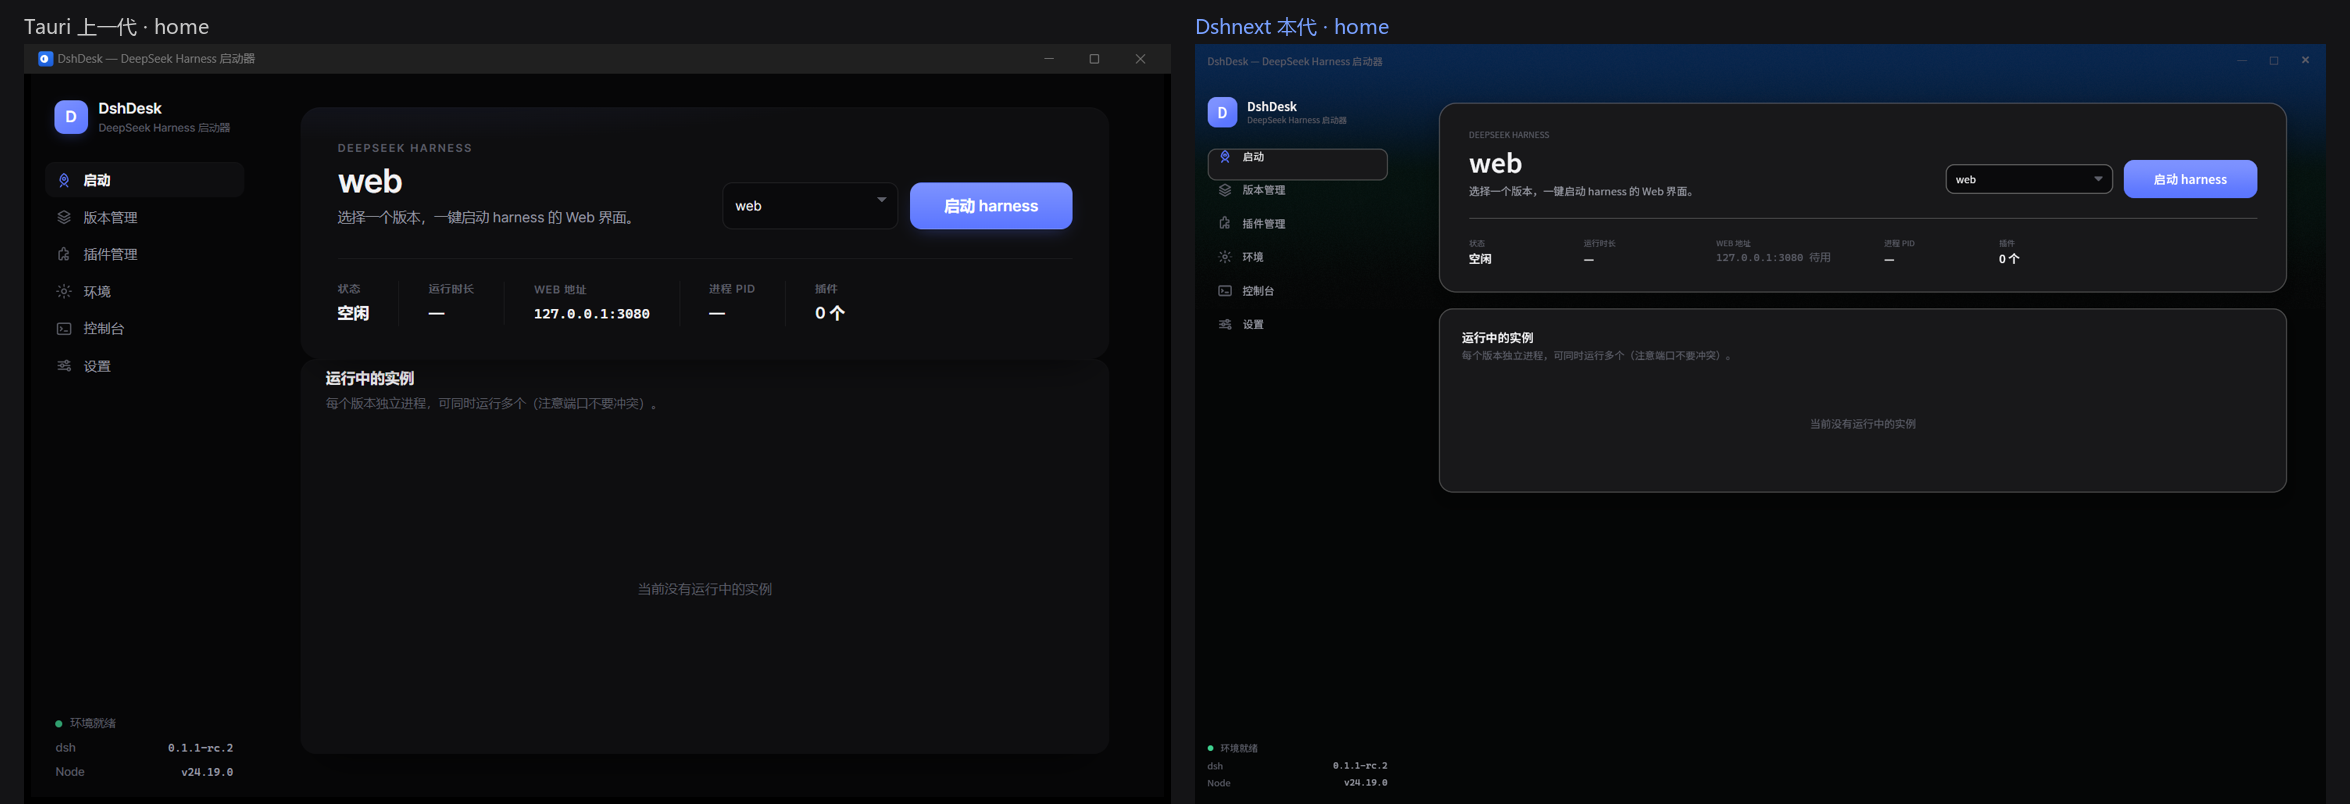
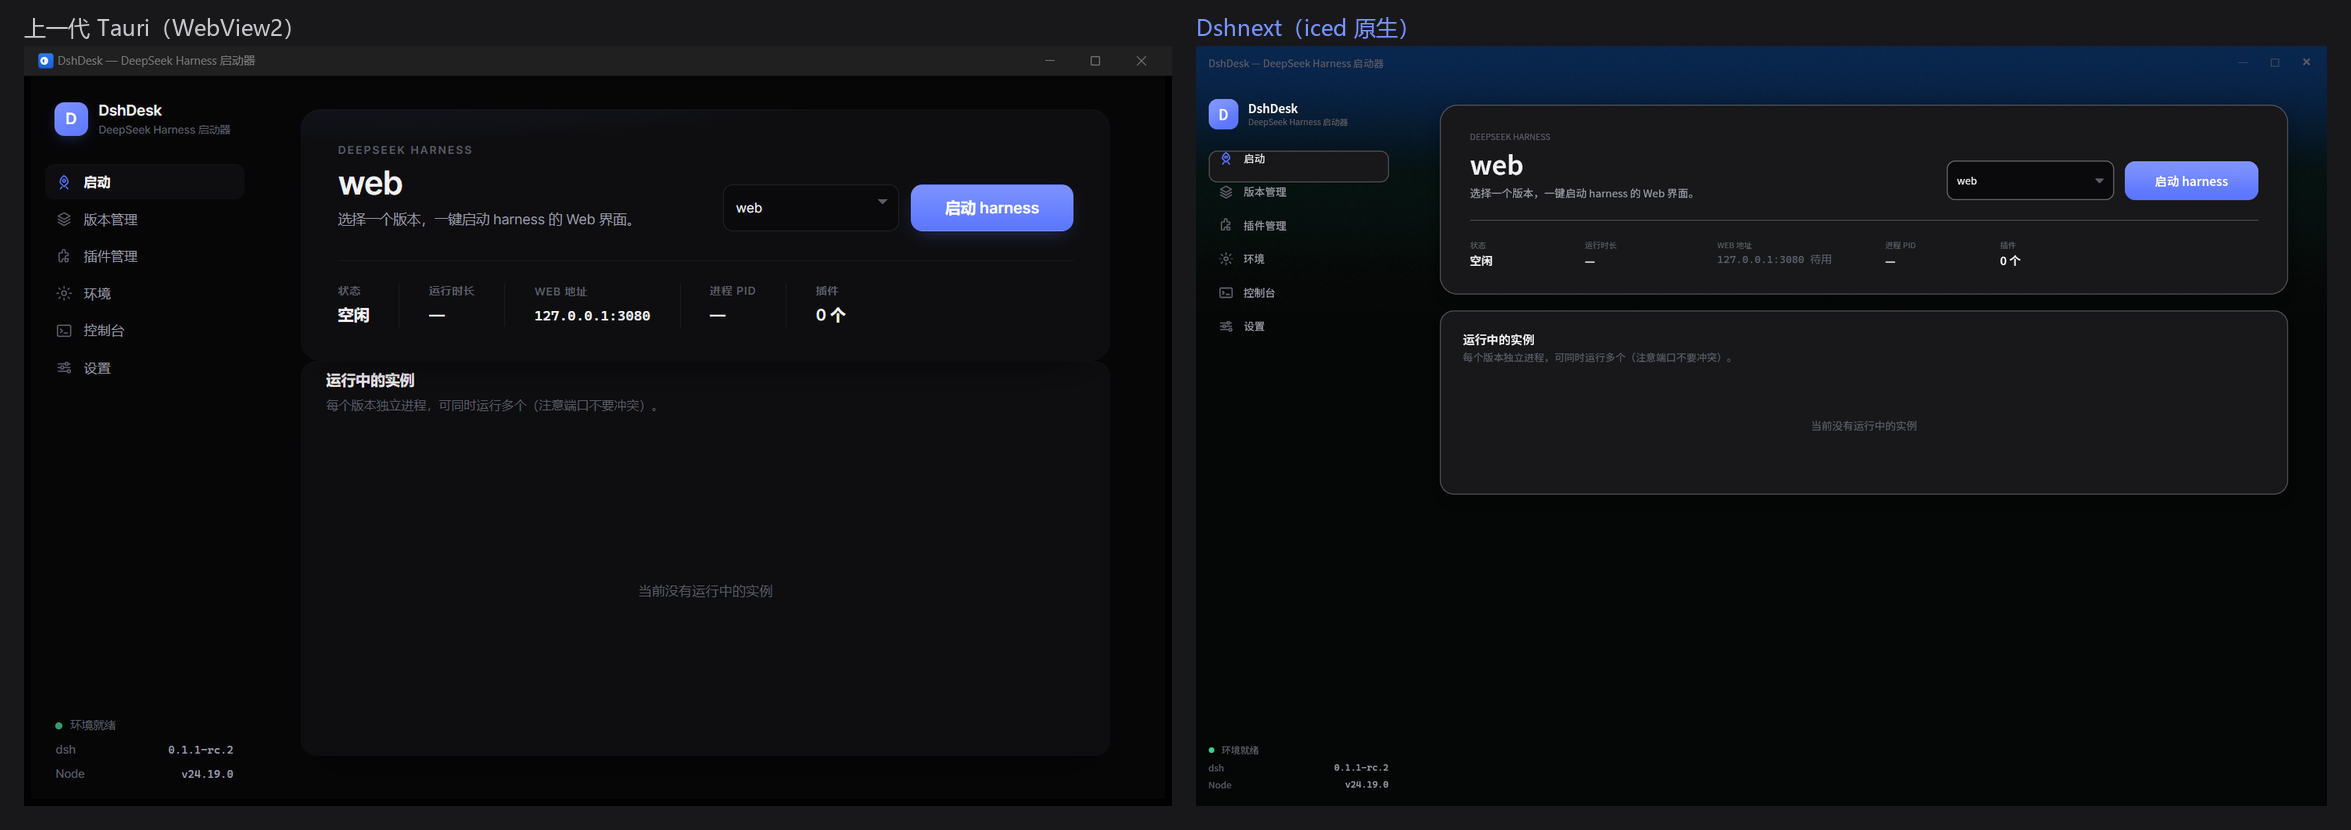
Dshnext 首页 hero 下拉框与启动按钮等高（修「偏下」）
现象：首页版本下拉「web」看着比右侧「启动 harness」按钮低。
根因：上一代 CSS 有两档 select 高度——基础 .select 36px、hero 覆盖成
.hero-actions .select 48px 以与 .btn-hero 等高；Dshnext 把 dropdown()
统一成 ~35px，hero 那档矮了约 10px，顶边就比按钮低、读起来像陷下去
（其实两者中心是对齐的，是高度不一致）。

- widgets::dropdown 加 vpad 参数（pick_list 无 .height()，高度只能靠 padding 撑）
- home hero 传 vpad 15 与按钮等高；其余 6 处（settings×2/plugins/console/env×2）
  保持 vpad 9（基础档，观感不变）
- 量测确认：下拉框 y[162..216] vs 按钮 y[163..217]，等高、顶底边对齐
- 重出 home 明暗 + env 截图，tools/make-compare.py 重生六页并排对比图
- iced_test 14/14 绿；judge 视觉验收 home-dark/home-light/env-dark 全 pass

diff --git a/Dshnext/tools/make-compare.py b/Dshnext/tools/make-compare.py
@@ -1,0 +1,54 @@
+#!/usr/bin/env python3
+"""生成「上一代 Tauri（左）× Dshnext（右）」并排对比图到 shots/compare-p4/。
+
+用法：python tools/make-compare.py [页面名...]   不带参数则六页全出。
+输入：shots/tauri-pages/0N-<name>.png 与 shots/p4-<name>-dark.png
+      （后者用 `dshnext --shot --page <name> --theme dark` 现出）
+CJK 标签靠系统 msyh.ttc；面板按高度 760 等比缩放，深色底拼一张。
+"""
+import sys, os
+from PIL import Image, ImageDraw, ImageFont
+
+ROOT = os.path.dirname(os.path.dirname(os.path.abspath(__file__)))
+SHOTS = os.path.join(ROOT, "shots")
+OUT = os.path.join(SHOTS, "compare-p4")
+PANEL_H = 760
+LABELBAR = 46
+PAD, GAP = 24, 24
+BG = (24, 24, 26)
+FONT = "C:/Windows/Fonts/msyh.ttc"
+# tauri-pages 的文件名前缀编号 → 页面名
+PAGES = {"home": "01", "profiles": "02", "plugins": "03",
+         "env": "04", "console": "05", "settings": "06"}
+
+
+def scale(im):
+    w = round(im.width * PANEL_H / im.height)
+    return im.resize((w, PANEL_H), Image.LANCZOS)
+
+
+def compose(name):
+    tauri = Image.open(os.path.join(SHOTS, "tauri-pages", f"{PAGES[name]}-{name}.png")).convert("RGB")
+    dsh = Image.open(os.path.join(SHOTS, "p4-%s-dark.png" % name)).convert("RGB")
+    t, d = scale(tauri), scale(dsh)
+    W = PAD + t.width + GAP + d.width + PAD
+    H = LABELBAR + PANEL_H + PAD
+    canvas = Image.new("RGB", (W, H), BG)
+    dr = ImageDraw.Draw(canvas)
+    f = ImageFont.truetype(FONT, 22)
+    dr.text((PAD, 12), "上一代 Tauri（WebView2）", font=f, fill=(200, 200, 205))
+    dr.text((PAD + t.width + GAP, 12), "Dshnext（iced 原生）", font=f, fill=(120, 150, 255))
+    canvas.paste(t, (PAD, LABELBAR))
+    canvas.paste(d, (PAD + t.width + GAP, LABELBAR))
+    os.makedirs(OUT, exist_ok=True)
+    out = os.path.join(OUT, f"{name}.png")
+    canvas.save(out)
+    print("wrote", out, canvas.size)
+
+
+if __name__ == "__main__":
+    want = sys.argv[1:] or list(PAGES)
+    for n in want:
+        if n not in PAGES:
+            print("未知页面", n); continue
+        compose(n)

diff --git a/Dshnext/src/ui/widgets.rs b/Dshnext/src/ui/widgets.rs
@@ -323,11 +323,15 @@ pub fn check<'a, Message: Clone + 'a>(
 
 /// 下拉选择（CSS `.select`）。选项收 owned `Vec<T>`——`pick_list` 的
 /// `L: Borrow<[T]>` 允许 Vec，省得调用方为了凑 `&'a [T]` 去 leak。
+/// `vpad` 是纵向内边距：pick_list 没有 `.height()`，高度只能靠 padding 撑。
+/// 上一代基础 `.select` 高 36px（vpad 9），首页 hero 的 `.select` 覆盖成 48px
+/// 以与 `.btn-hero` 等高（vpad 15）——两者不同高会让下拉顶边比按钮低、看着「陷下去」。
 pub fn dropdown<'a, T, Message>(
     options: Vec<T>,
     selected: Option<T>,
     on_select: impl Fn(T) -> Message + 'a,
     width: f32,
+    vpad: u16,
     pal: &'static Palette,
 ) -> Element<'a, Message>
 where
@@ -336,7 +340,7 @@ where
 {
     pick_list(options, selected, on_select)
         .width(Length::Fixed(width))
-        .padding(Padding::from([9, 12]))
+        .padding(Padding::from([vpad, 12]))
         .text_size(11.5)
         .font(FONT_SANS)
         .style(move |_theme: &Theme, status: pick_list::Status| {

diff --git a/Dshnext/src/pages/settings.rs b/Dshnext/src/pages/settings.rs
@@ -198,7 +198,7 @@ fn sources<'a>(app: &'a Dshnext, pal: &'static Palette) -> Element<'a, Message> 
                             .map(|(_, v)| v.to_string())
                             .unwrap_or_default();
                         Message::CfgNodeMirror(v)
-                    }, 260.0, pal),
+                    }, 260.0, 9, pal),
                     iced::widget::container(widgets::input(
                         "https://nodejs.org/dist",
                         &app.cfg_draft.node_mirror,
@@ -224,7 +224,7 @@ fn sources<'a>(app: &'a Dshnext, pal: &'static Palette) -> Element<'a, Message> 
                             .map(|(_, v)| v.to_string())
                             .unwrap_or_default();
                         Message::CfgNpmRegistry(v)
-                    }, 260.0, pal),
+                    }, 260.0, 9, pal),
                     iced::widget::container(widgets::input(
                         "https://registry.npmjs.org",
                         &app.cfg_draft.npm_registry,

diff --git a/Dshnext/src/pages/env.rs b/Dshnext/src/pages/env.rs
@@ -87,6 +87,7 @@ fn detect_card<'a>(app: &'a Dshnext, pal: &'static Palette) -> Element<'a, Messa
                 Some(app.node_pick.clone()),
                 Message::PickNode,
                 150.0,
+                9,
                 pal,
             ));
         }
@@ -189,6 +190,7 @@ fn detect_card<'a>(app: &'a Dshnext, pal: &'static Palette) -> Element<'a, Messa
                 })
             },
             170.0,
+            9,
             pal,
         ));
         r = r.push(action_btn(

diff --git a/Dshnext/src/pages/home.rs b/Dshnext/src/pages/home.rs
@@ -69,6 +69,7 @@ fn hero<'a>(app: &'a Dshnext, pal: &'static Palette) -> Element<'a, Message> {
             current,
             |v: String| Message::Select(v.split(" · ").next().unwrap_or(&v).to_string()),
             190.0,
+            15, // hero：与 48px 的启动按钮等高（上一代 .hero-actions .select）
             pal,
         ));
     }

diff --git a/Dshnext/src/pages/console.rs b/Dshnext/src/pages/console.rs
@@ -47,6 +47,7 @@ pub fn view(app: &Dshnext) -> Element<'_, Message> {
             Some(app.log_filter.clone()),
             Message::SetLogFilter,
             180.0,
+            9,
             pal
         ),
         widgets::check("自动滚动", app.auto_scroll, Message::ToggleAutoScroll, pal),

diff --git a/Dshnext/src/pages/plugins.rs b/Dshnext/src/pages/plugins.rs
@@ -43,6 +43,7 @@ fn toolbar_card<'a>(app: &'a Dshnext, pal: &'static Palette) -> Element<'a, Mess
             current,
             Message::Select,
             180.0,
+            9,
             pal,
         ));
     }
